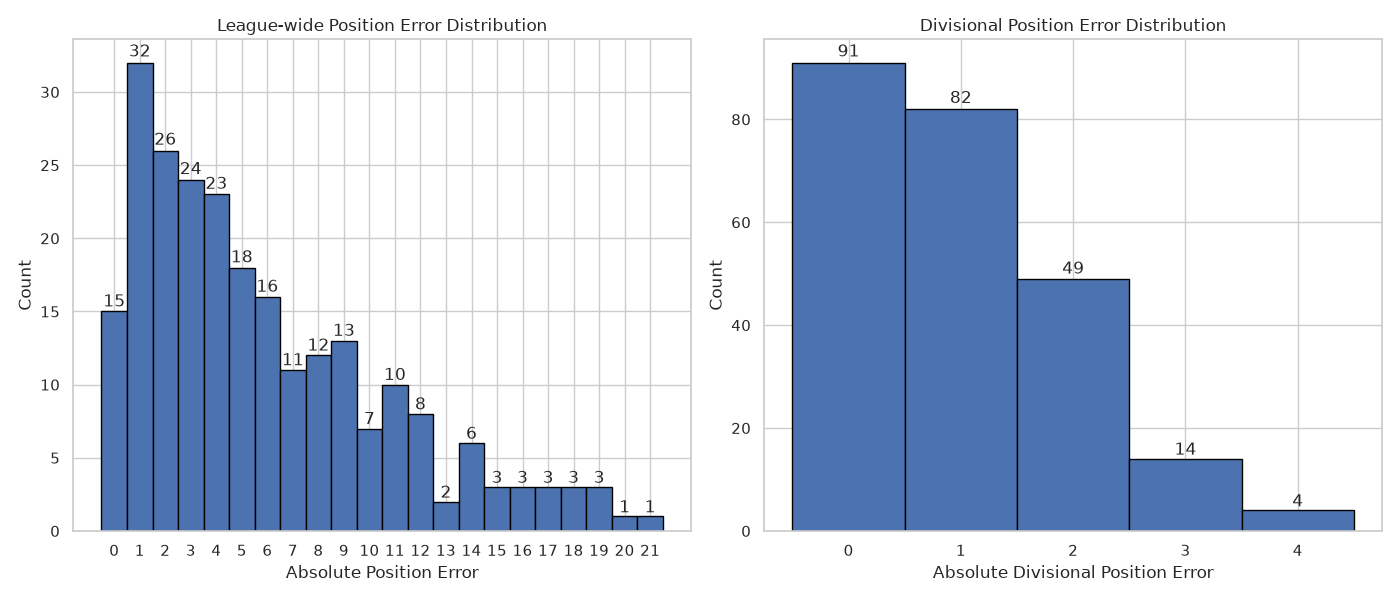
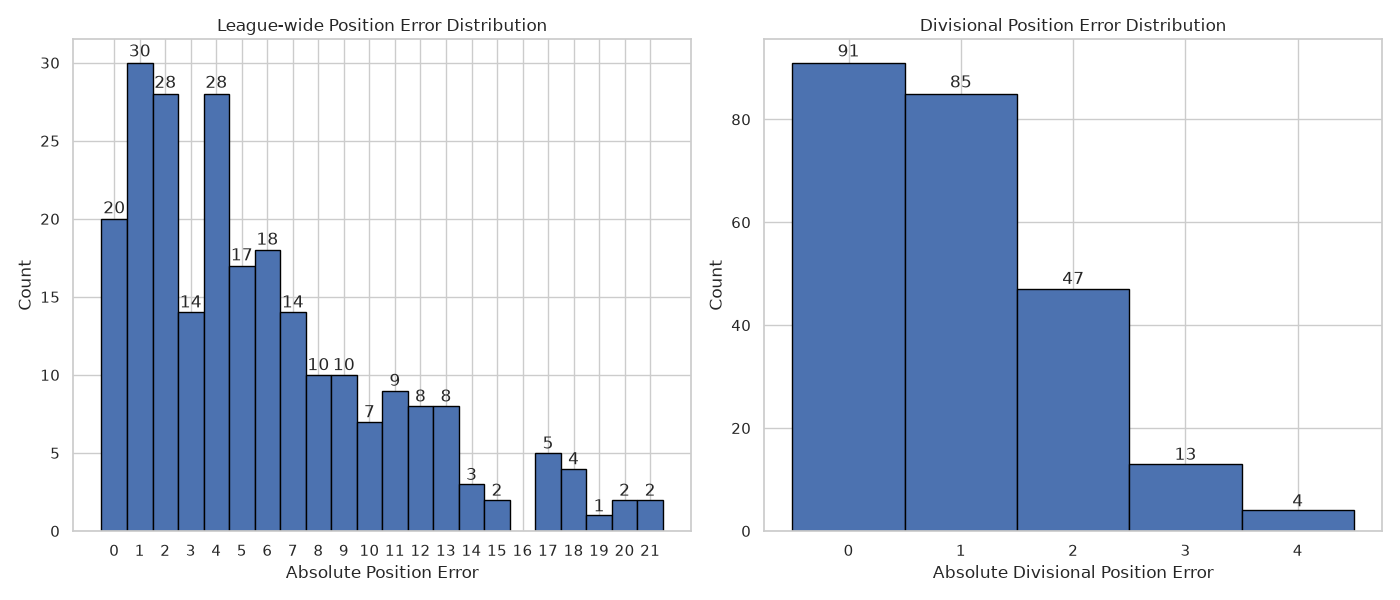
small fix

diff --git a/tasks/a_ranking/main.py b/tasks/a_ranking/main.py
@@ -31,7 +31,7 @@ def setup_logging() -> logging.Logger:
     logger.setLevel(logging.INFO)
     logger.handlers.clear()
 
-    file_handler = logging.FileHandler(LOG_FILE, mode="w")
+    file_handler = logging.FileHandler(LOG_FILE, mode="a")
     file_handler.setFormatter(logging.Formatter("%(message)s"))
     logger.addHandler(file_handler)
 
@@ -69,7 +69,7 @@ def main() -> None:
     results_by_model = {exp["name"]: [] for exp in config.EXPERIMENTS}
 
     for test_year in TEST_YEARS:
-        sampler(1984, train_until=test_year - 1, test_year=test_year)
+        sampler(1995, train_until=test_year - 1, test_year=test_year)
         train_data = pd.read_csv(ROOT / "data" / "train" / "Teams.csv")
         test_data = pd.read_csv(ROOT / "data" / "test" / "Teams.csv")
 

diff --git a/tasks/a_ranking/config.py b/tasks/a_ranking/config.py
@@ -6,7 +6,7 @@ DATABASE = ROOT / "database" / "hockey.db"
 RESULTS_DIR = ROOT / "tasks" / "a_ranking" / "results"
 LOG_DIR = ROOT / "tasks" / "a_ranking" / "logs"
 
-TEST_YEARS = [2000, 2001, 2002, 2003, 2005, 2006, 2007, 2008, 2009]
+TEST_YEARS = [2000, 2001, 2002, 2003, 2006, 2007, 2008, 2009]
 ALPHAS = [1.0, 3.0, 10.0, 30.0, 100.0]
 PREVIOUS_YEARS = [3, 2, 1]
 
